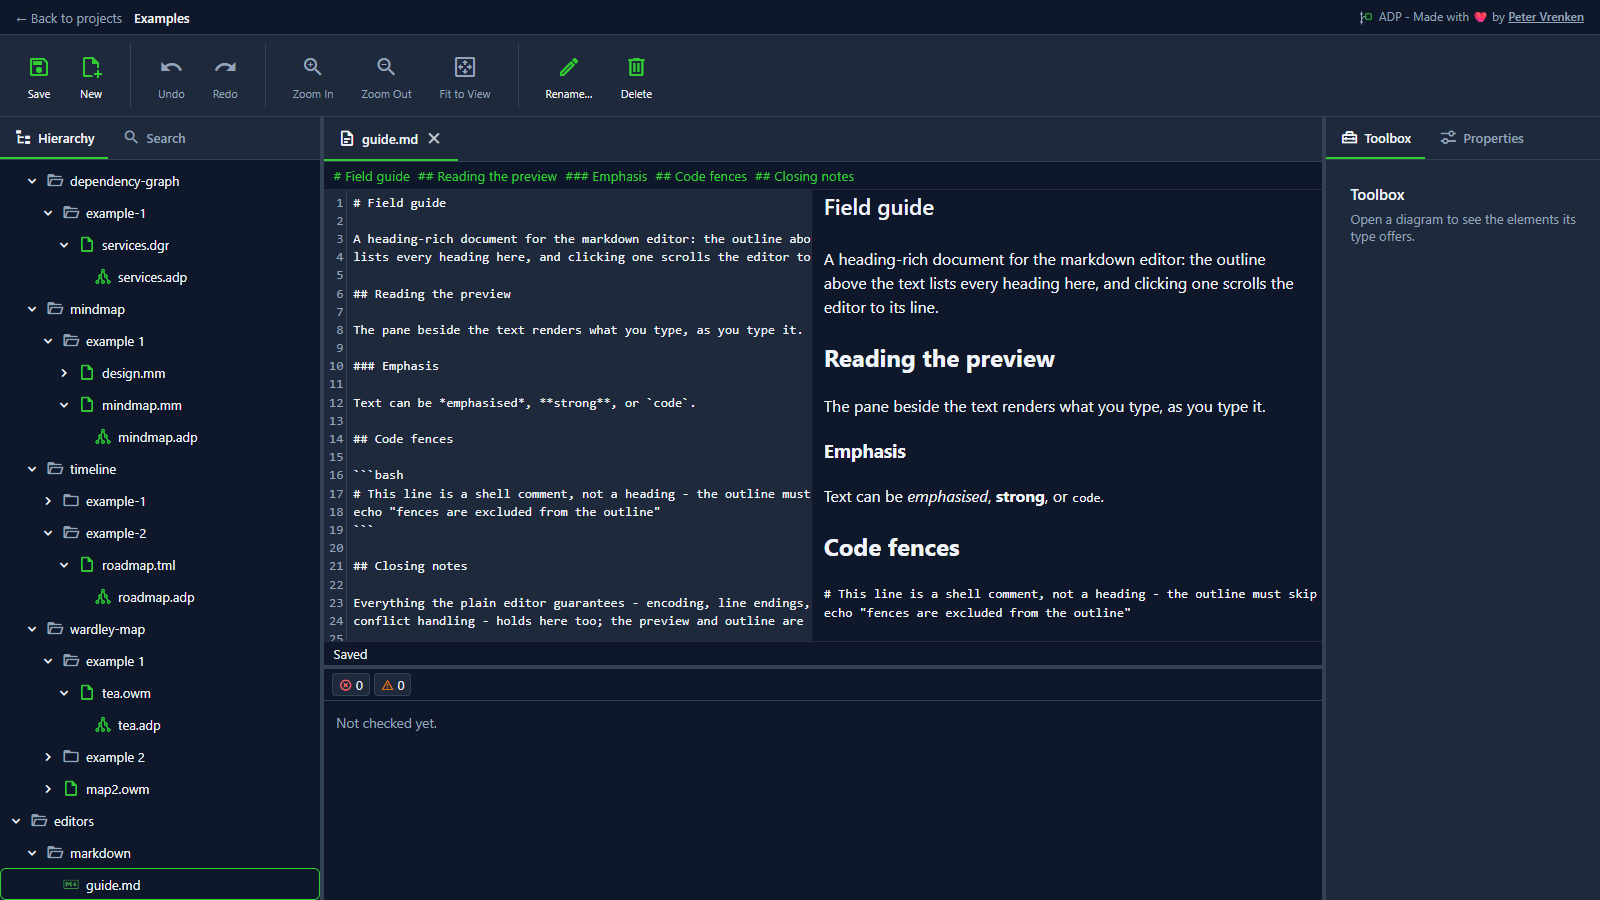
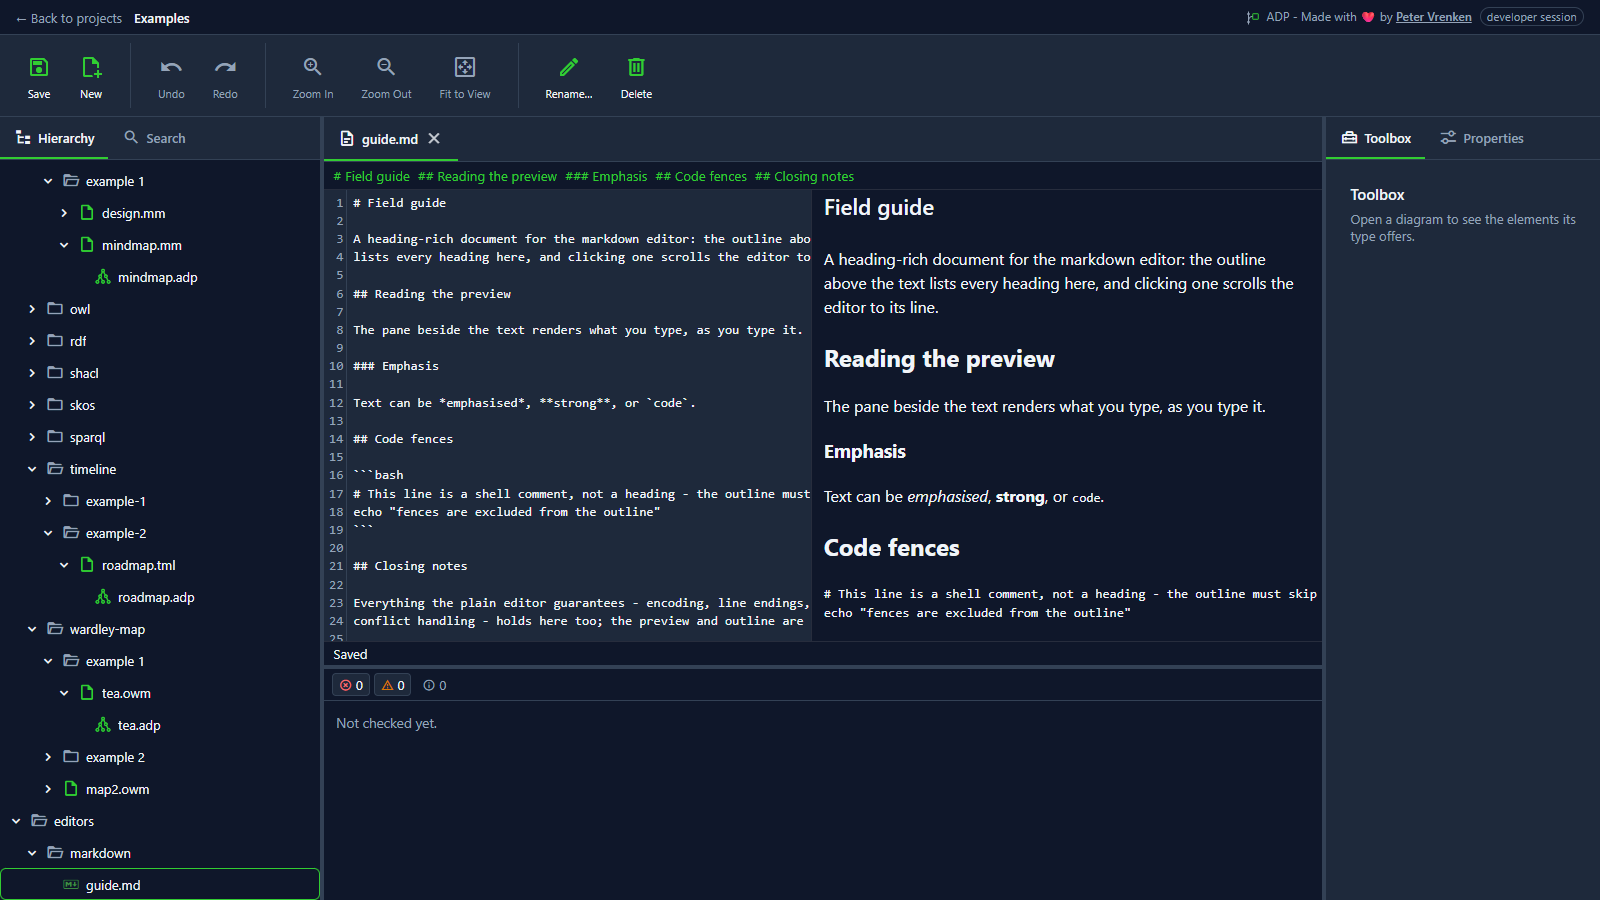
Retook the readme screenshots, and taught the capture script that a developer build needs no sign-in.
The canvas fixes change what every one of these images shows - the Wardley map fills its canvas
instead of sitting as a square in the middle of it, and nothing is clipped - so per
docs/screenshots/readme.md's own rule they are retaken rather than left as a false claim with a
picture attached.

The script could no longer run: it waited unconditionally for a sign-in form, and a developer
build has not rendered one since developer-sign-in-bypass landed. It now types the credential
only where there is a field to type it into.

The committed set was captured without typing one, so each image carries the quiet "developer
session" marker a release build never shows. That is recorded in the screenshots readme along
with how to retake without it.

Changed region(s): [[0.0312, 0.3422, 0.125, 0.4978], [0.0312, 0.1867, 0.125, 0.3111], [0.7812, 0.0, 1.0, 0.0311]]

diff --git a/docs/screenshots/readme.md b/docs/screenshots/readme.md
@@ -8,7 +8,15 @@ The images the root readme shows, and how each was taken — precisely enough th
 - **App**: run from source per the root readme's getting-started steps (this is deliberate — capturing the screenshots doubles as verifying those steps). From a worktree, use a free port pair per CLAUDE.md's port rule; the committed set was captured on backend `5480` / client `5474`.
 - **Browser**: headless Chrome, viewport **1600×900 CSS px, device pixel ratio 1, 100% zoom**, full-viewport crop, no browser chrome.
 - **Theme**: the app's default (dark). Nothing toggled.
-- **Login**: the `developer` environment credentials (`admin` / `changeme`).
+- **Login**: the `developer` environment credentials (`admin` / `changeme`) - typed only if a
+  sign-in form appears. A developer build opens already authenticated
+  (developer-sign-in-bypass), and the script types nothing in that case.
+- **Known artefact of that**: a build that bypassed the sign-in renders a quiet `developer
+  session` marker at the right-hand end of the header, which a user of a release build never
+  sees. The committed set carries it, because the capture was taken without typing a
+  credential. To retake without it, start the backend with
+  `LocalAuthenticator__DeveloperSessionDisabled=true` and let the script sign in; everything
+  else about the images is unchanged.
 - **Format and budget**: PNG; each image ≤ 300 KB, the workspace overview ≤ 1 MB.
 
 The whole procedure is executable: [`capture.mjs`](capture.mjs) drives all of the above with puppeteer-core (`npm i puppeteer-core`, then `node capture.mjs http://localhost:5480 .` — it expects Chrome at its standard Windows path; adjust the constant for another machine). Retaking one image means re-running the script and committing the changed file; the entries below say what each image must show, which is what to check before committing a retake.
